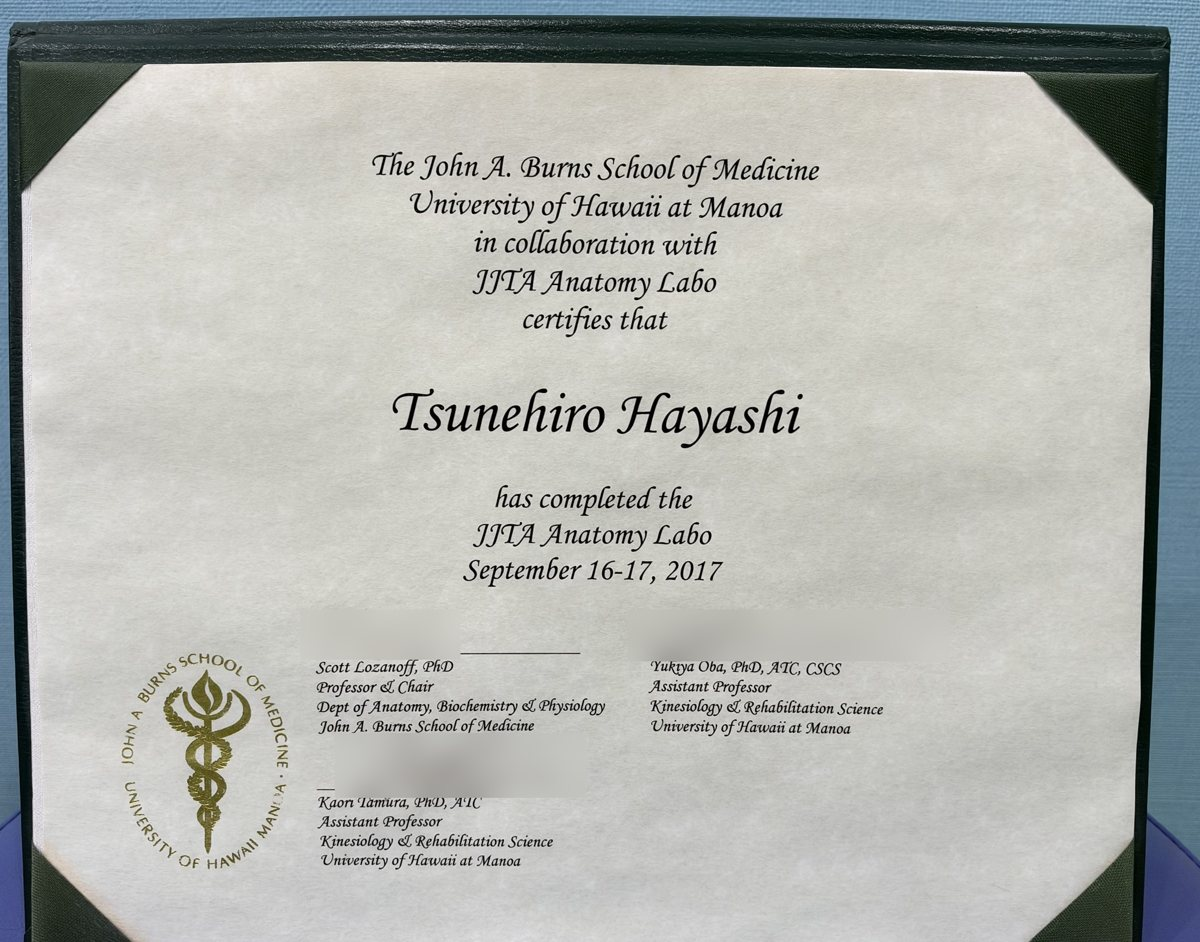
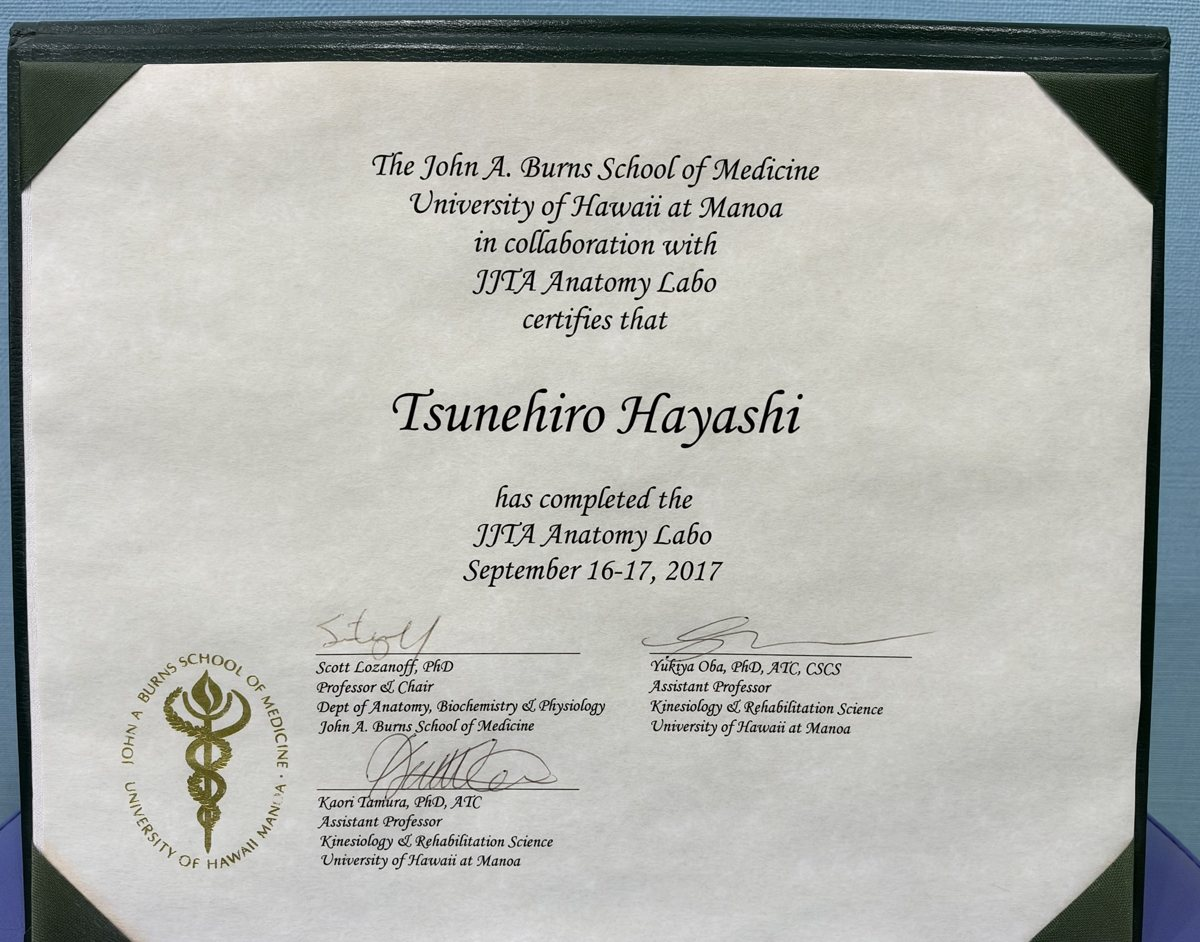
代表の経歴にハワイ大学医学部の解剖学研修（2017・2018）と修了証の写真・トップの一文
Claude-Session: https://claude.ai/code/session_01PM2mruK46r1eDWs7voThra

Changed region(s): [[0.2775, 0.7696, 0.4625, 0.862], [0.5242, 0.6465, 0.74, 0.7081], [0.2775, 0.6773, 0.37, 0.7081]]

diff --git a/src/pages/Staff.html b/src/pages/Staff.html
@@ -64,7 +64,7 @@ summary::marker{color:#17594F}
 <dt style="font-weight: 700; color: #17594F">得意な施術</dt><dd style="margin: 0">骨ぴか整体（骨格矯正）・鍼灸施術・交通事故でのアドバイス・スポーツコンディション</dd>
 <dt style="font-weight: 700; color: #17594F">主な経歴</dt><dd style="margin: 0"><span style="display: block; padding-left: 1em; text-indent: -1em">・男子新体操 全日本選手権大会 優勝三連覇</span><span style="display: block; padding-left: 1em; text-indent: -1em">・1978年に父が開業した院の2代目（親子2代・江別で48年）</span><span style="display: block; padding-left: 1em; text-indent: -1em">・交通事故のケガの施術 年間300件（江別本院）</span><span style="display: block; padding-left: 1em; text-indent: -1em">・ハワイ大学医学部での解剖学研修を修了（2017年・2018年）</span></dd><dt style="font-weight: 700; color: #17594F">活動</dt><dd style="margin: 0">自賠責保険のしくみについて整骨院向けセミナーの講師</dd>
 </dl>
-<div style="display: flex; flex-wrap: wrap; gap: 10px; margin: 4px 0 10px"><figure style="margin: 0; flex: 1 1 220px; min-width: 0; max-width: 360px; display: flex; flex-direction: column; gap: 4px"><img src="./img/cert_hawaii_2017.jpg" alt="ハワイ大学医学部 解剖学研修の修了証（2017年・署名はぼかしています）" loading="lazy" style="width: 100%; aspect-ratio: 1200 / 942; object-fit: cover; border-radius: 10px; border: 1px solid #C9D8D4; display: block"><figcaption style="font-size: 12px; color: #3A4B47">ハワイ大学医学部 解剖学研修の修了証（2017年）</figcaption></figure><figure style="margin: 0; flex: 1 1 220px; min-width: 0; max-width: 360px; display: flex; flex-direction: column; gap: 4px"><img src="./img/cert_hawaii_2018.jpg" alt="ハワイ大学医学部 解剖学研修の修了証（2018年・署名はぼかしています）" loading="lazy" style="width: 100%; aspect-ratio: 1200 / 942; object-fit: cover; border-radius: 10px; border: 1px solid #C9D8D4; display: block"><figcaption style="font-size: 12px; color: #3A4B47">ハワイ大学医学部 解剖学研修の修了証（2018年）</figcaption></figure></div>
+<div style="display: flex; flex-wrap: wrap; gap: 10px; margin: 4px 0 10px"><figure style="margin: 0; flex: 1 1 220px; min-width: 0; max-width: 360px; display: flex; flex-direction: column; gap: 4px"><img src="./img/cert_hawaii_2017.jpg" alt="ハワイ大学医学部 解剖学研修の修了証（2017年）" loading="lazy" style="width: 100%; aspect-ratio: 1200 / 942; object-fit: cover; border-radius: 10px; border: 1px solid #C9D8D4; display: block"><figcaption style="font-size: 12px; color: #3A4B47">ハワイ大学医学部 解剖学研修の修了証（2017年）</figcaption></figure><figure style="margin: 0; flex: 1 1 220px; min-width: 0; max-width: 360px; display: flex; flex-direction: column; gap: 4px"><img src="./img/cert_hawaii_2018.jpg" alt="ハワイ大学医学部 解剖学研修の修了証（2018年）" loading="lazy" style="width: 100%; aspect-ratio: 1200 / 942; object-fit: cover; border-radius: 10px; border: 1px solid #C9D8D4; display: block"><figcaption style="font-size: 12px; color: #3A4B47">ハワイ大学医学部 解剖学研修の修了証（2018年）</figcaption></figure></div>
 <blockquote style="margin: 4px 0 0; padding: 14px 18px; border-left: 4px solid #17594F; background: #F2F6F4; border-radius: 0 12px 12px 0; color: #1B2A27; font-size: 16px">身体から症状の理由を一緒に探して、5年・10年先に良い身体になれるように目指しましょう。</blockquote>
 </div>
 </article>
